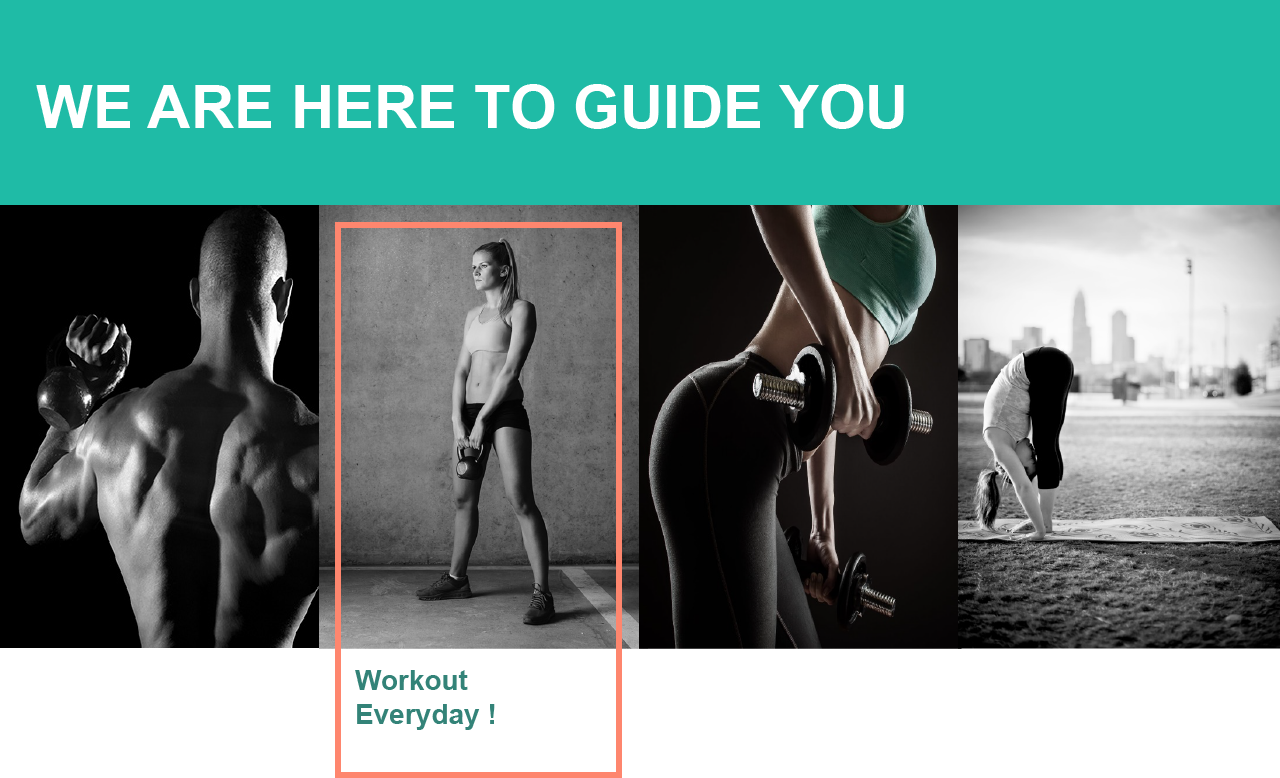
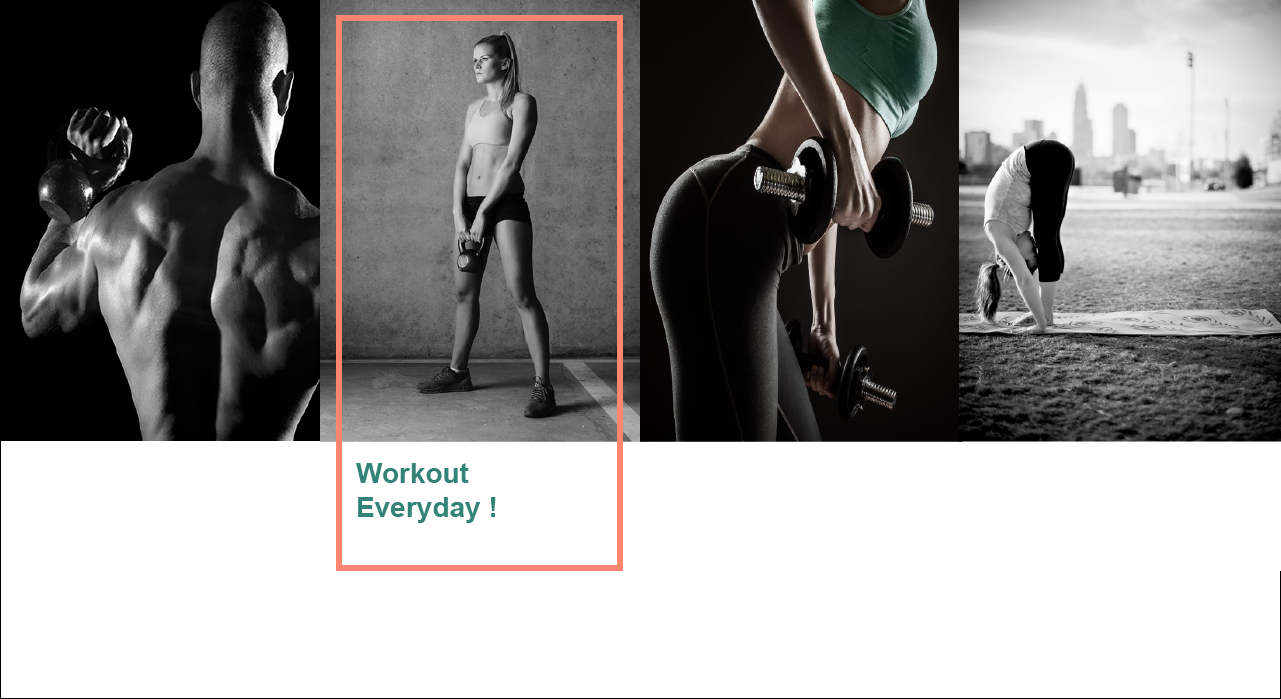
t

diff --git a/style.css b/style.css
@@ -1664,9 +1664,11 @@ input[type=range]::-webkit-slider-thumb {
 
 .AboutImage{
     width: 100%;
-    height: 730px;
+    height: 535px;
     background-image: url(images/AboutUs.png);
     background-size: Cover;
+    position:relative;
+    top: 200px;
 }
 
 
